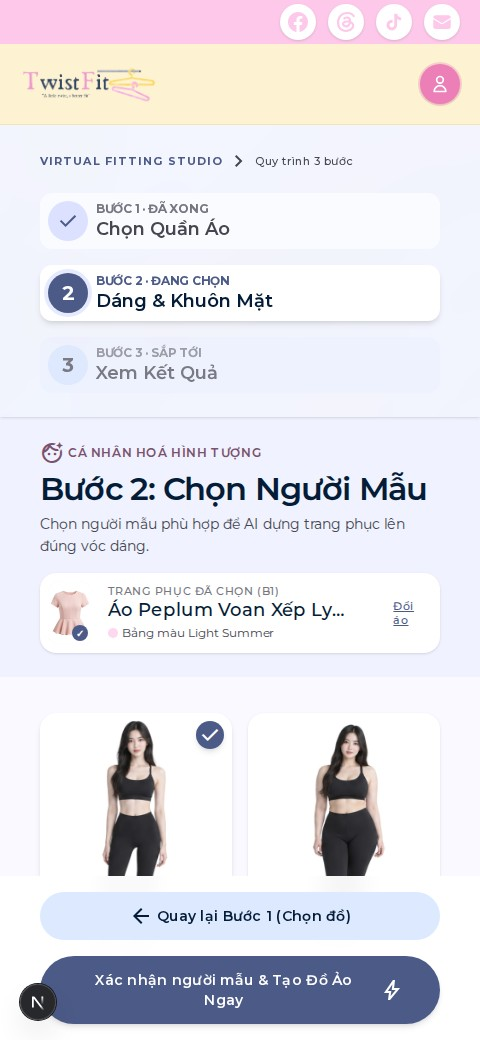
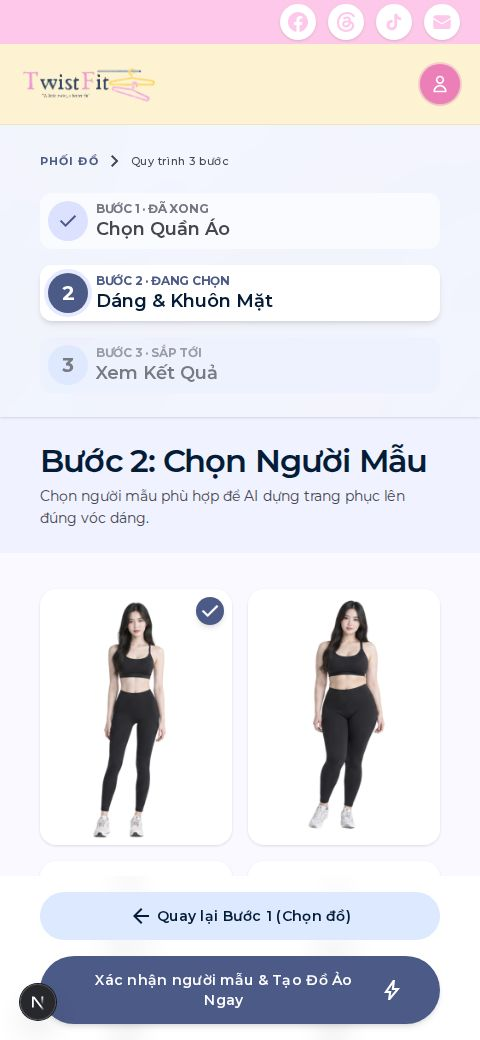
feat(outfit): simplify step-2 model selection page
Remove the "chosen garment" recap banner, the eyebrow label, and the
per-model caption (which was really just the model's body-shape name)
so the model grid reads as plain photo cards. Refresh the homepage
feature-showcase mockup to match.

diff --git a/components/outfit/step2/Step2PageContent.tsx b/components/outfit/step2/Step2PageContent.tsx
@@ -6,7 +6,6 @@ import { useRouter } from 'next/navigation'
 import { useState } from 'react'
 import { apiFetch } from '@/lib/apiClient'
 import { useOutfitFlow } from '../OutfitFlowProvider'
-import SelectedGarmentBanner from './SelectedGarmentBanner'
 import ModelCatalog from './ModelCatalog'
 import type { CatalogModel } from '@/lib/modelCatalog'
 
@@ -52,16 +51,9 @@ export default function Step2PageContent({ models }: { models: CatalogModel[] })
   return (
     <div className="flex w-full flex-col">
       <section className="w-full bg-surface-container-low px-margin-desktop py-space-lg">
-        <div className="mx-auto flex max-w-7xl flex-col justify-between gap-space-md lg:flex-row lg:items-center">
-          <div>
-            <div className="flex items-center gap-space-xs text-label-md font-semibold uppercase tracking-wider text-secondary">
-              <span className="material-symbols-outlined text-[18px]">face_retouching_natural</span>
-              {t('eyebrow')}
-            </div>
-            <h1 className="mt-1 text-headline-lg tracking-tight text-on-surface">{t('heading')}</h1>
-            <p className="mt-1 text-body-md text-on-surface-variant">{t('subheading')}</p>
-          </div>
-          <SelectedGarmentBanner />
+        <div className="mx-auto max-w-7xl">
+          <h1 className="text-headline-lg tracking-tight text-on-surface">{t('heading')}</h1>
+          <p className="mt-1 text-body-md text-on-surface-variant">{t('subheading')}</p>
         </div>
       </section>
       <section className="w-full bg-background px-margin-desktop py-space-xl">

diff --git a/components/outfit/step2/ModelCatalog.test.tsx b/components/outfit/step2/ModelCatalog.test.tsx
@@ -41,9 +41,9 @@ describe('ModelCatalog', () => {
         <ModelCatalog models={MODELS} />
       </OutfitFlowProvider>
     )
-    expect(screen.getByText('Mảnh mai')).toBeInTheDocument()
-    expect(screen.getByText('Thể thao')).toBeInTheDocument()
-    expect(screen.getByText('Thư sinh')).toBeInTheDocument()
+    expect(screen.getByAltText('Mảnh mai')).toBeInTheDocument()
+    expect(screen.getByAltText('Thể thao')).toBeInTheDocument()
+    expect(screen.getByAltText('Thư sinh')).toBeInTheDocument()
   })
 
   it('shows the front-facing image for each model', () => {
@@ -62,7 +62,7 @@ describe('ModelCatalog', () => {
         <ModelCatalog models={MODELS} />
       </OutfitFlowProvider>
     )
-    fireEvent.click(screen.getByText('Thư sinh'))
+    fireEvent.click(screen.getByAltText('Thư sinh'))
     expect(screen.getByText('Đang xem: Thư sinh')).toBeInTheDocument()
   })
 
@@ -72,7 +72,7 @@ describe('ModelCatalog', () => {
         <ModelCatalog models={MODELS} />
       </OutfitFlowProvider>
     )
-    const card = screen.getByText('Thể thao').closest('button') as HTMLButtonElement
+    const card = screen.getByAltText('Thể thao').closest('button') as HTMLButtonElement
     fireEvent.click(card)
     expect(card).toHaveAttribute('aria-pressed', 'true')
   })

diff --git a/components/outfit/step2/ModelCatalog.tsx b/components/outfit/step2/ModelCatalog.tsx
@@ -40,13 +40,6 @@ export default function ModelCatalog({ models }: { models: CatalogModel[] }) {
                 className="h-full w-full object-cover transition-transform duration-300 hover:scale-105"
               />
             </div>
-            <div className="flex flex-col bg-surface-container-lowest p-space-sm">
-              <span
-                className={`text-label-lg font-semibold ${isSelected ? 'font-bold text-primary' : 'text-on-surface'}`}
-              >
-                {model.name}
-              </span>
-            </div>
           </button>
         )
       })}
